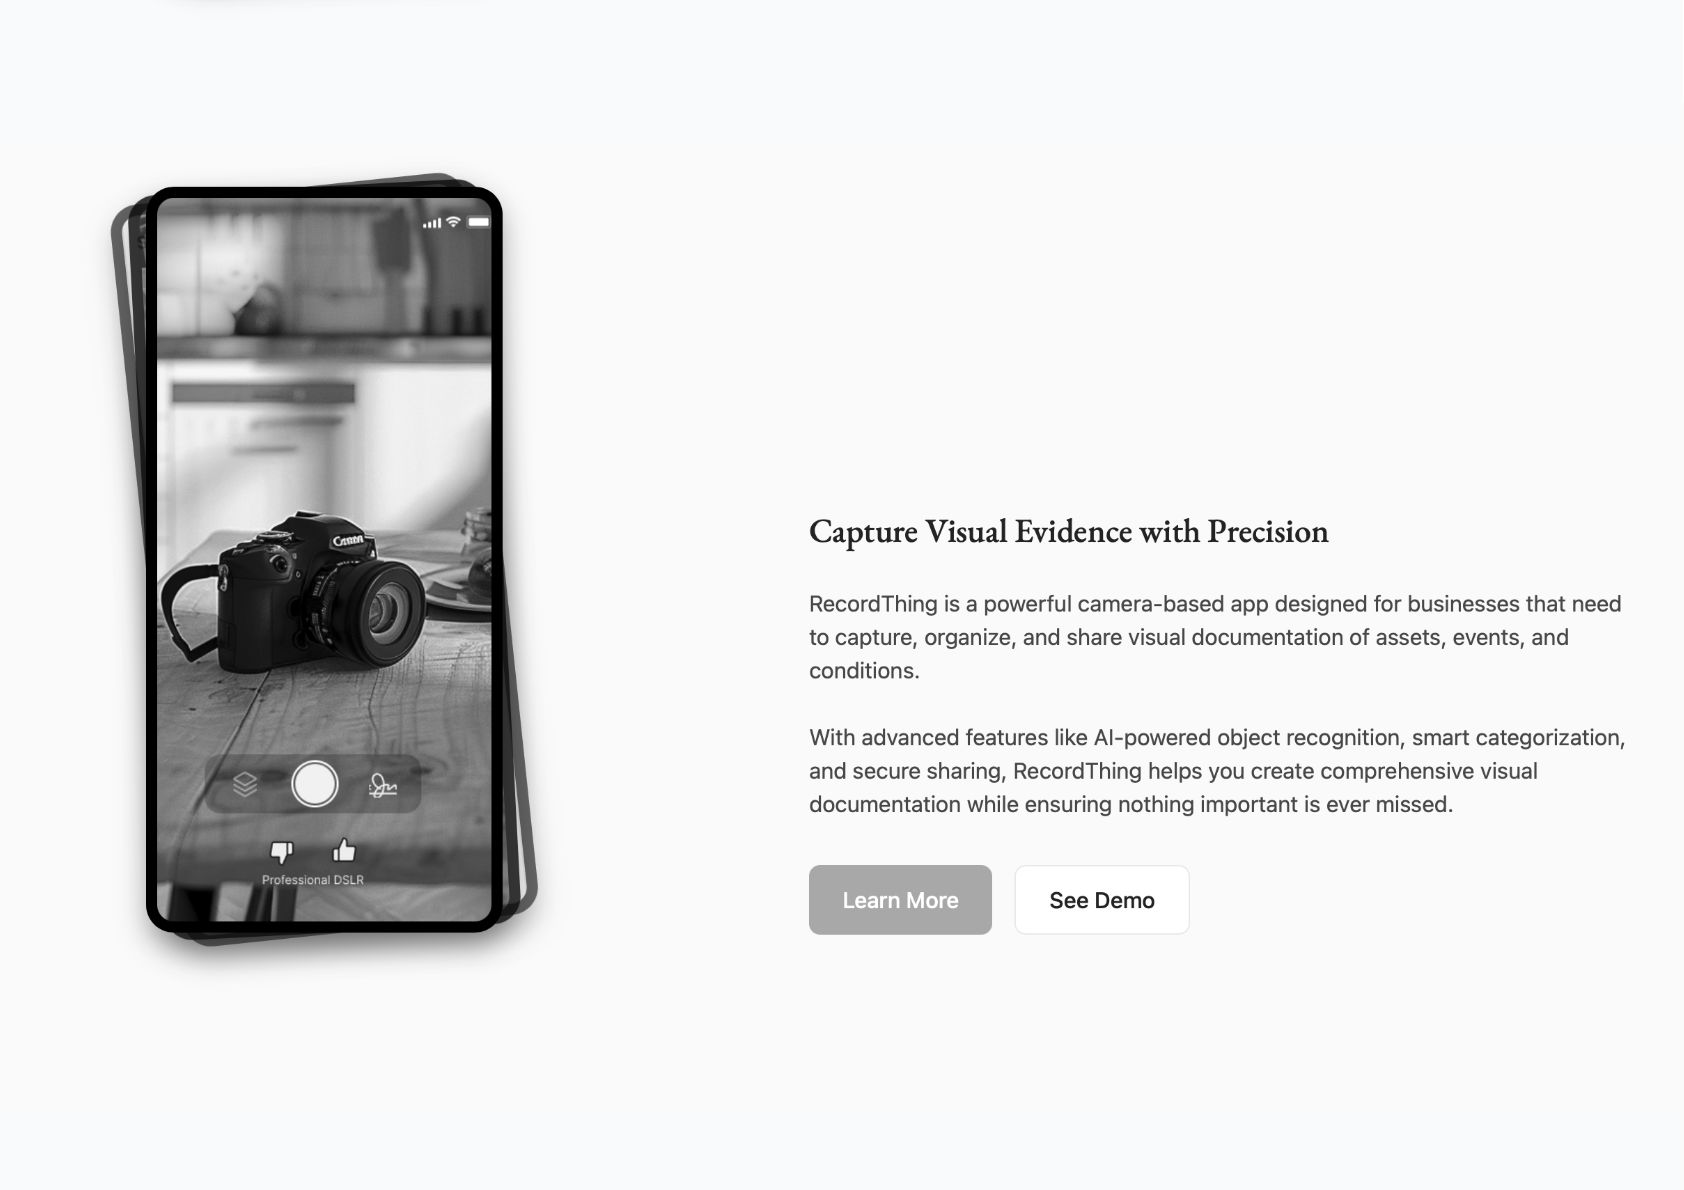
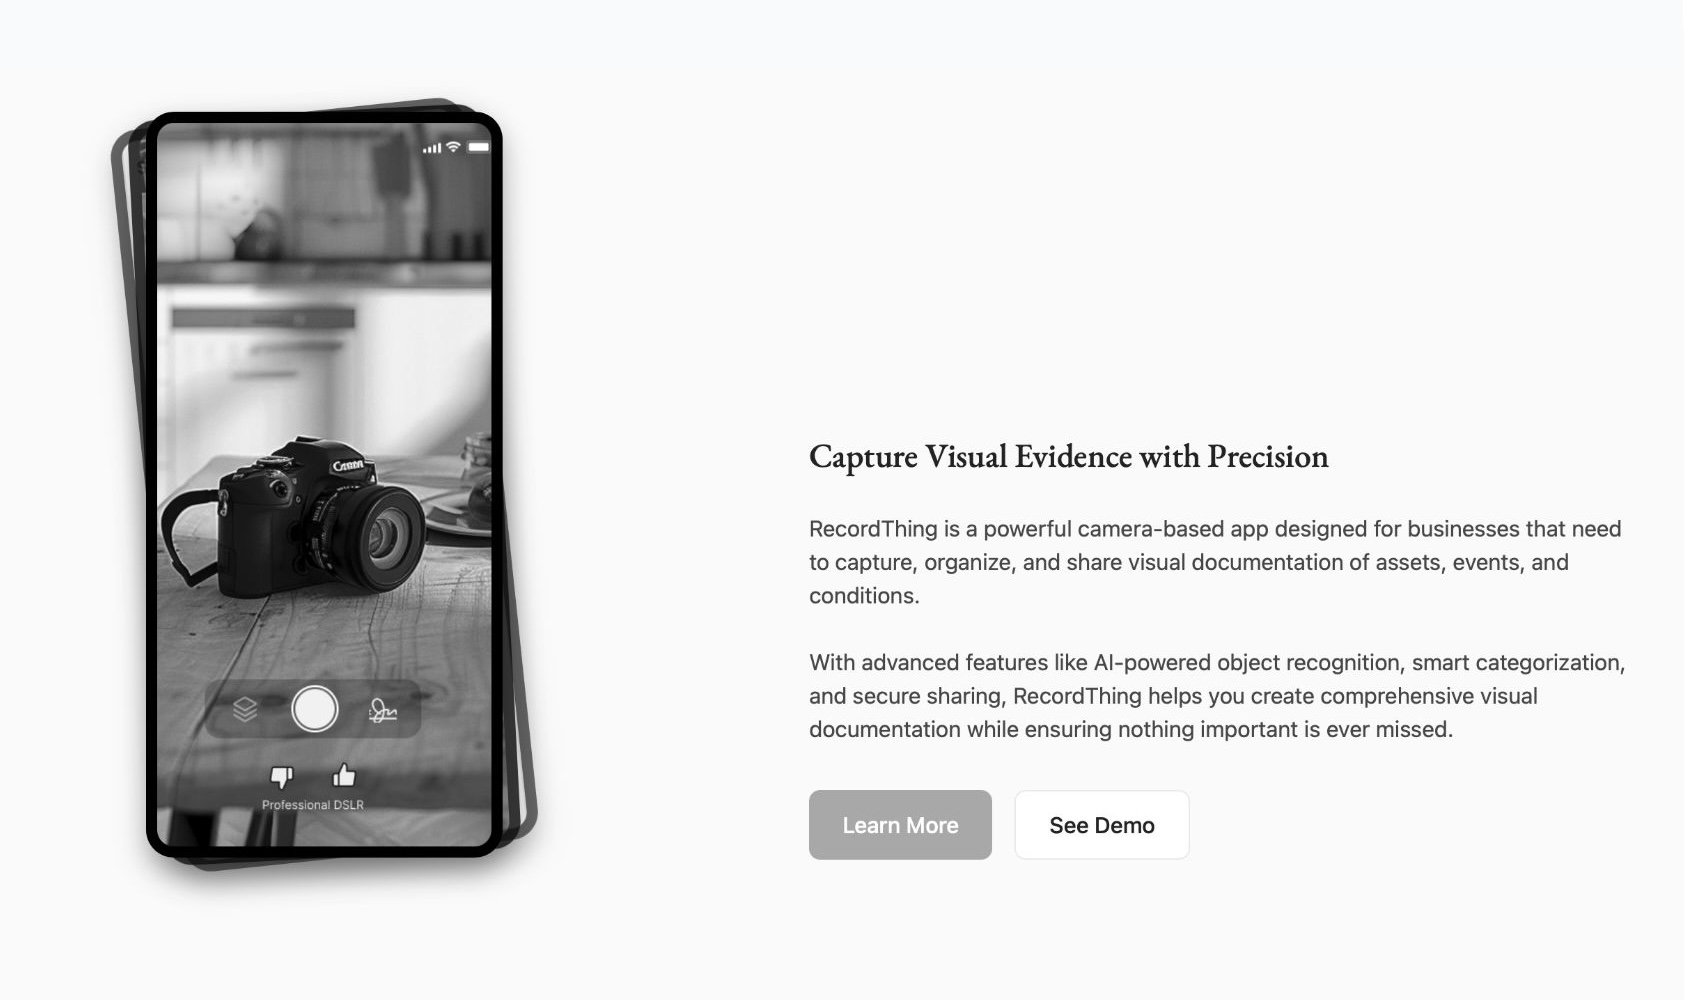
Featured case studies

diff --git a/src/content.config.ts b/src/content.config.ts
@@ -14,6 +14,7 @@ const caseStudies = defineCollection({
 			greyImage: z.string(),
 			heroImage: z.string(),
 			roles: z.array(z.string()),
+			featured: z.boolean().optional(),
 			people: z.array(z.string()).optional(),
 			introduction: z.string(),
 			aboutProject: z.object({

diff --git a/src/content/talki/bob.md b/src/content/talki/bob.md
@@ -1,0 +1,123 @@
+Bob
+
+Computers of the future will not wait for you to tell them what to do. They will take the initiative based on what goes on around them
+
+We’ve created Bob to explore the future of smart products. What if you used digital technology to make something other than a computer? Computers are when you boil it down a type of calculator. A user will instruct it to carry out a task, and it will work on it until done. If nobody instructs it, it will do nothing. It is a tool, just like a bicycle.
+
+This isn’t how nature works. Natural beings are born with goals, and they will work towards them without any instruction. So what if you use technology in the same way. We now have lots of very compact and affordable technology that can be combined in interesting ways.
+
+As clever as your smartphone is, it will only do something if you decide to do it. It is still just a tool. However we can use some of the technology to create a digital being. Step number one is to remove the screen. If there is no user any screen we use shouldn’t be built in. You might connect one for testing and development purposes, but it is only temporary.
+
+So bob is a digital being that is always on. Bob has the hardware to perceive the world. Our challenge is to program Bob to perceive the world and perhaps also react to it.
+
+So why is iBob always on? Have you ever gone up to a dog and looked for the off switch?
+We expect electronics to have an off switch, because we use them as tools, but Bob isn’t a tool, so he will also be able to react when you are not around to instruct him.
+This of course means that we will have to figure out modes of attention, wakefulness and goal driven behavior.
+
+Bob is made around a modern ARM CPU with dedicated Machine Learning hardware. We have two 1080p camera modules suited for low light. Bob has many more features, but these are the important choices we concluded after trying to turn a raspberry pi into a digital being.
+
+What can you do with Bob? Right now it”s a bit limited since we”re working on the firmware. You can download the alpha version and try out the cool cameras. When the firmware is ready you will be able to run a machine vision model battery driven. You will also be able to teach Bob when to pay attention, and when not to.
+
+Our Roadmap, well roadmaps suck. How do we know when things will work as they should, but here are some things we plan to work on:
+
+- Directional listening and recognition 
+- Reliable human detection
+- Location sense
+
+
+
+### Getting started with Bob
+
+When you first get Bob home, he will get going once connected to a computer or Smartphone.
+
+1. Connect the cable in the box from Bob to a USB-C socket on your Computer or Phone
+2. Go to the personal website for your Bob to control it. Either bob.local or boblocal.net.
+
+Your new friend is called Harry Bob Five Ducks. Its a unique name only your Bob has. 
+
+
+If you want to get started early with Bob, you can get one now with a base Linux running. The full firmware will be released later in the year. With the current software it takes a bit more effort to load TensorFlow and PyTorch models on your new device, but all the fundamental functionality is available 
+
+
+
+
+## Alt
+
+Bob
+
+Computers have gotten really powerful these days, haven’t they? They can do so many things that it things continue, one day soon it will take more than a lifetime to learn about all the things a computer can do for you.
+So why do we make computers that we are supposed to use like we would use a hairdryer or a dishwasher. Anyone can become an expert dishwasher operator. They really are just a tool for saving us time washing up.
+Computers are different. Many things that we can do with computers, cannot be done without them.
+I think we can make computers that work different from the ones we have today. Today you have to tell the computer exactly what you want to do. It does it, assuming that it understood you, and wait for the next thing you want it to do.
+But what if you are not there? It won’t be doing anything. That’s quite dumb!
+Why can’t it just keep an eye on things while you are gone at least? Surely just that must be useful.
+
+About now some people will say, hey that’s what we are building robots for, we’re working on it. Ok, perhaps, but there are plenty of cool things that don’t require a machine that can move around your house or move other things around.
+Let’s say I make a computer that is always on, it can recogise your Pet and what it is up to when you are not there. Hmm, that would be interesting. I wonder if someone has already built that!
+
+
+This kind of thinking made me do a lot of experiments. The first thing you’d probably do is hook up a WebCamera to Google cloud and try to teach Google to recognise your Pet. But… The more I thought about it the more it felt Eeeew…. I’m not trying to create a free and unedited reality TV channel on the Internet.
+
+So jumping ahead several steps, I made a digital being that can see what is going on. 
+I will be able to train it to recognise my Pet all by itself, and perhaps tell it to stop if it pees on the floor.
+
+
+Why get a Bob?
+
+There are two reasons
+
+1. You want learn and experiment with machine intelligence out in the real world, and you don’t want to become a mobile phone engineer first. We use smartphone technology, but in a different way.
+2. You want to explore what computers of tomorrow will be like. Always running and looking to useful things for you before you know that you need it
+
+Bob is meant for the Explorers that look for what we haven’t figured out yet.
+
+
+Ts3usb221
+Hd3ss3412 is a 4 channel switchn
+Tusb546 linear redriver active switch 
+
+Tusb020
+
+
+Try to make Zephyr run everywhere
+https://medium.com/geekculture/the-zephyr-rtos-is-awesome-931bce3a695f
+
+
+Bob’s your uncle 
+
+
+
+
+Machine Vision Camera
+
+
+Bob can be used to capture things out in the world to learn how to recognising them in the future. You can do this simply by pressing the camera button on the side. While the button is pressed images will be captured of the thing. As you capture a thing from different angles and in different conditions the coverage will increase
+
+You could use a Smartphone or Professional camera to capture your training images. But you should capture images with a setup similar to what the Vision Model will be seeing when used.
+
+
+Speaker Expansion
+
+
+
+Games & Challenges Expansion
+Create your own games for the Family
+
+
+Machine Vision Maker
+
+Machine Vision Game Maker
+
+Machine Visions Trainer
+
+
+Make a computer come alive
+
+Starting at level 0
+
+Find the spartk of life
+
+Digital lifeform
+
+
+Being a useful person is what keeps me alive

diff --git a/src/content/talki/ziloo.md b/src/content/talki/ziloo.md
@@ -1,0 +1,47 @@
+Ziloo
+
+
+
+Ziloo is an independent device that sees and senses the environment. It recognises objects and behavior based on what it has been taught. It outputs an event log describing what is perceived.
+
+The bridge board connects the MCU to camera modules. The board gets network connectivity and power over two USB-C connectors.
+Two M.2 connectors enables extension boards (Key B & E)
+Other connections are used during development for LVDS touchscreen and GPIOs.
+
+Compulab supported user=4322
+
+
+
+Ziloo, it’ alive!
+
+What makes it alive?
+
+Facial expression 
+It recognizes friend from foe
+It senses the world 
+It reacts
+
+Imitating Life
+
+
+https://survey.typeform.com/to/qwmoj5
+
+
+
+Can you teach it to recognize the real world?
+
+Is it alive? Not yet!
+
+
+It.s a portable computing device with personality that can learn to recognize what you show it. You can learn to train machine intelligence by connecting it to your tablet or personal computer.
+
+
+
+Collect interesting data about the world that you can use
+
+Data collection sciences 
+Biology, psychology 
+
+Observing and collecting 
+
+Persona female teacher in biology and math

diff --git a/src/content/talki/talki.md b/src/content/talki/talki.md
@@ -1,0 +1,31 @@
+Talki: Language Acquisition in Children
+
+As part of an Interaction Design Thesis for a SUPSI Masters Degree, we created a children’s toy for enriching play and learning. We added modern technology to a traditional doll.
+
+
+
+Talki seems to immediately attract the attention of small children, so it might be used for child behavioural research where directing the subject is a challenge.
+
+Talki Skills:
+- Identifies Faces
+- Tracks Hands
+- Identifies Gestures
+- Identifies Known Objects
+- Identifies Spoken Sounds
+
+This can be used to
+- Track language acquisition in specific children
+- Track playtime and patterns
+- Track what toys a child plays with
+- Track vocalisation/speech in specific children
+
+What other things would you like to track?
+
+- eyes and attention patterns
+- facial expressions and moods
+- crying / silence
+
+Would you want to record all instances of the child making
+- specific sounds
+- new sounds
+

diff --git a/src/content/talki/hello-there.md b/src/content/talki/hello-there.md
@@ -1,0 +1,40 @@
+Thepia vision mission 
+
+Based on what makes me unique
+
+Teaching children 
+Developing and designing completely new type of software or tech
+Grit
+Doing it because it is hard
+Solving 
+
+
+Vision of every child growing up with a talking friend to learn with
+
+A teaching friend for every child
+
+A vision for how a customer can work with us for years in the future 
+
+Memorable, manageable, measurable, motivating = 4m of mission 
+
+
+Digital Personality 
+Giving birth to a digital concience
+
+Parts making up Hello-There App
+
+Capacitor Plugin with VisionDriven API
+VisionDriven TS stub implementation 
+VisionDriven Swift Package 
+- Camera preview 
+- WebApp bridge and view
+- VisionService, Store
+SwiftUI main app
+WebApp stub
+Offline Service worker
+
+
+
+
+Elderly protection senile protection supervisor talki
+

diff --git a/src/content/caseStudies/evidently.md b/src/content/caseStudies/evidently.md
@@ -7,6 +7,7 @@ description: >-
 cardImage: /caseStudies/code/evidence/card.jpg
 greyImage: /caseStudies/code/evidence/card-grey.jpg
 heroImage: /caseStudies/code/evidence/card.jpg
+featured: true
 roles:
   - product-design
   - mobile-app

diff --git a/src/content/caseStudies/meta-avatars.md b/src/content/caseStudies/meta-avatars.md
@@ -6,6 +6,7 @@ description: >-
 cardImage: /caseStudies/code/codec-avatar.png
 greyImage: /caseStudies/code/codec-avatar-grey.png
 heroImage: /caseStudies/code/codec-avatar.png
+featured: true
 roles:
   - computer-vision
   - 3d-graphics
